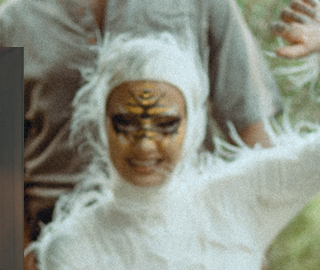
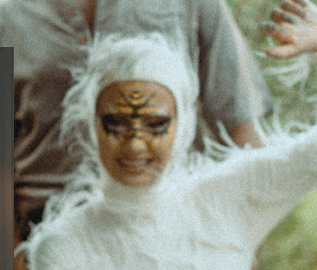
fix: recrop images with correct alignment and remove 'acumulo' from text

diff --git a/public/quem-sou-eu.html b/public/quem-sou-eu.html
@@ -773,7 +773,7 @@
                     </div>
                     <div class="flip-card-back green">
                         <div class="flip-card-back-content spaced">
-                            <div class="flip-card-back-text">Cada filme ou videoclipe é resultado de um acúmulo de referências, vivências, observação de corpos, espaços e gestos cotidianos. O cinema se constrói aos poucos, carrega marcas do processo, do tempo e das pessoas envolvidas. Gosto quando a imagem tem vida própria, quando algo nela continua vibrando depois que termina. Penso o set como um espaço vivo, onde imagem, corpo e tempo estão em constante negociação. Gosto de estar próxima do processo, acompanhando cada detalhe, porque é ali que a magia acontece.</div>
+                            <div class="flip-card-back-text">Cada filme ou videoclipe é resultado de referências, vivências, observação de corpos, espaços e gestos cotidianos. O cinema se constrói aos poucos, carrega marcas do processo, do tempo e das pessoas envolvidas. Gosto quando a imagem tem vida própria, quando algo nela continua vibrando depois que termina. Penso o set como um espaço vivo, onde imagem, corpo e tempo estão em constante negociação. Gosto de estar próxima do processo, acompanhando cada detalhe, porque é ali que a magia acontece.</div>
                         </div>
                     </div>
                 </div>
